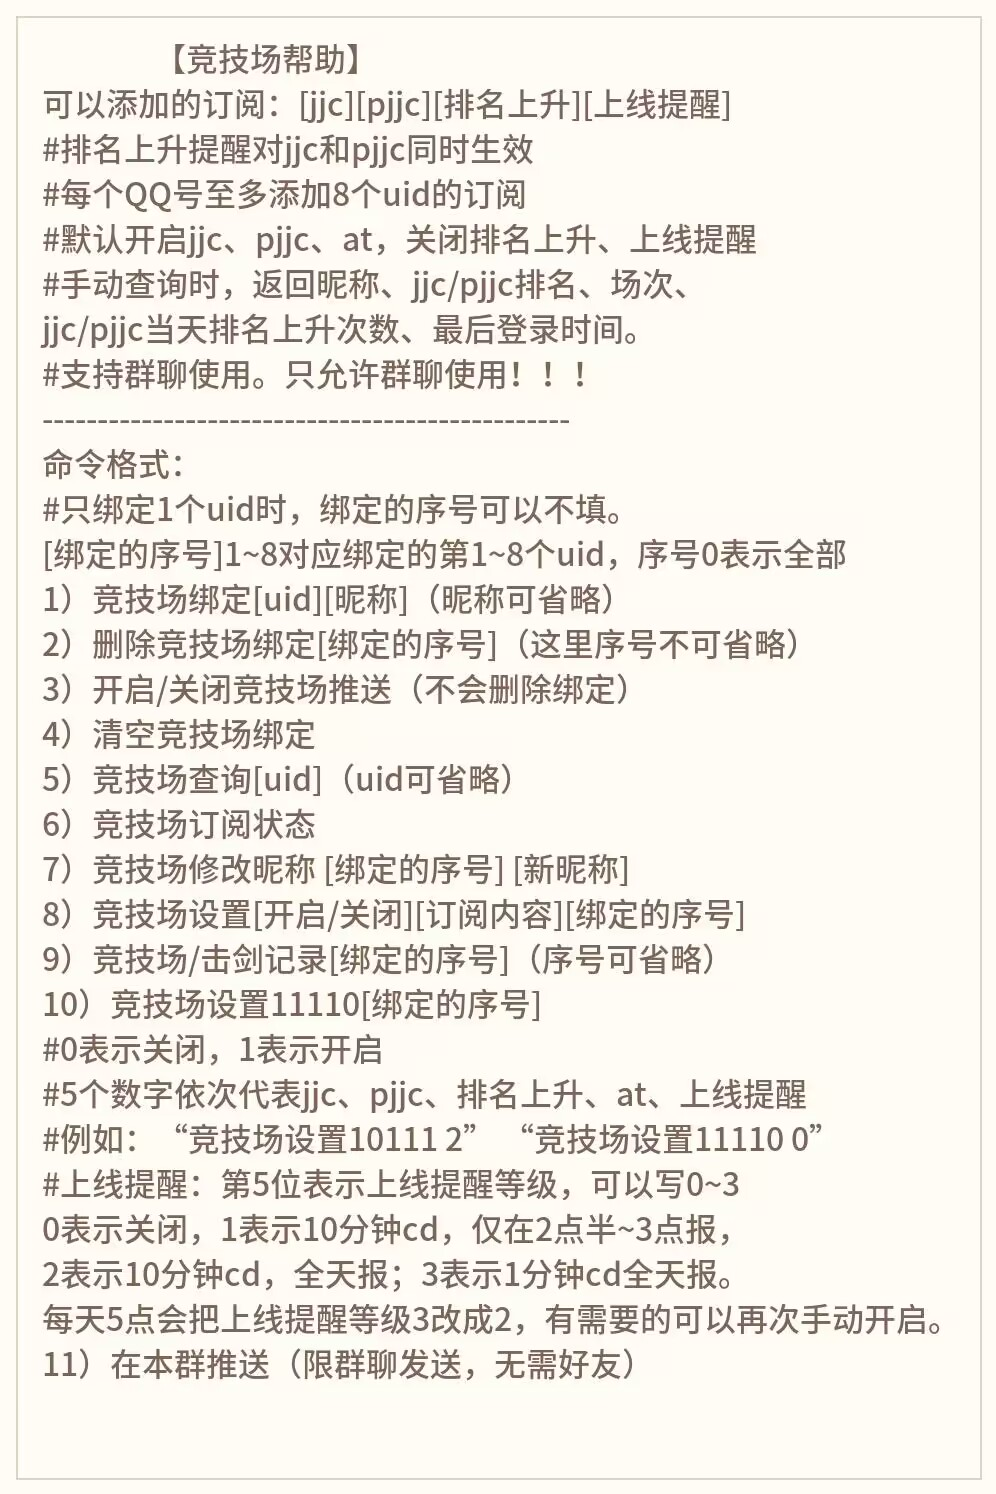
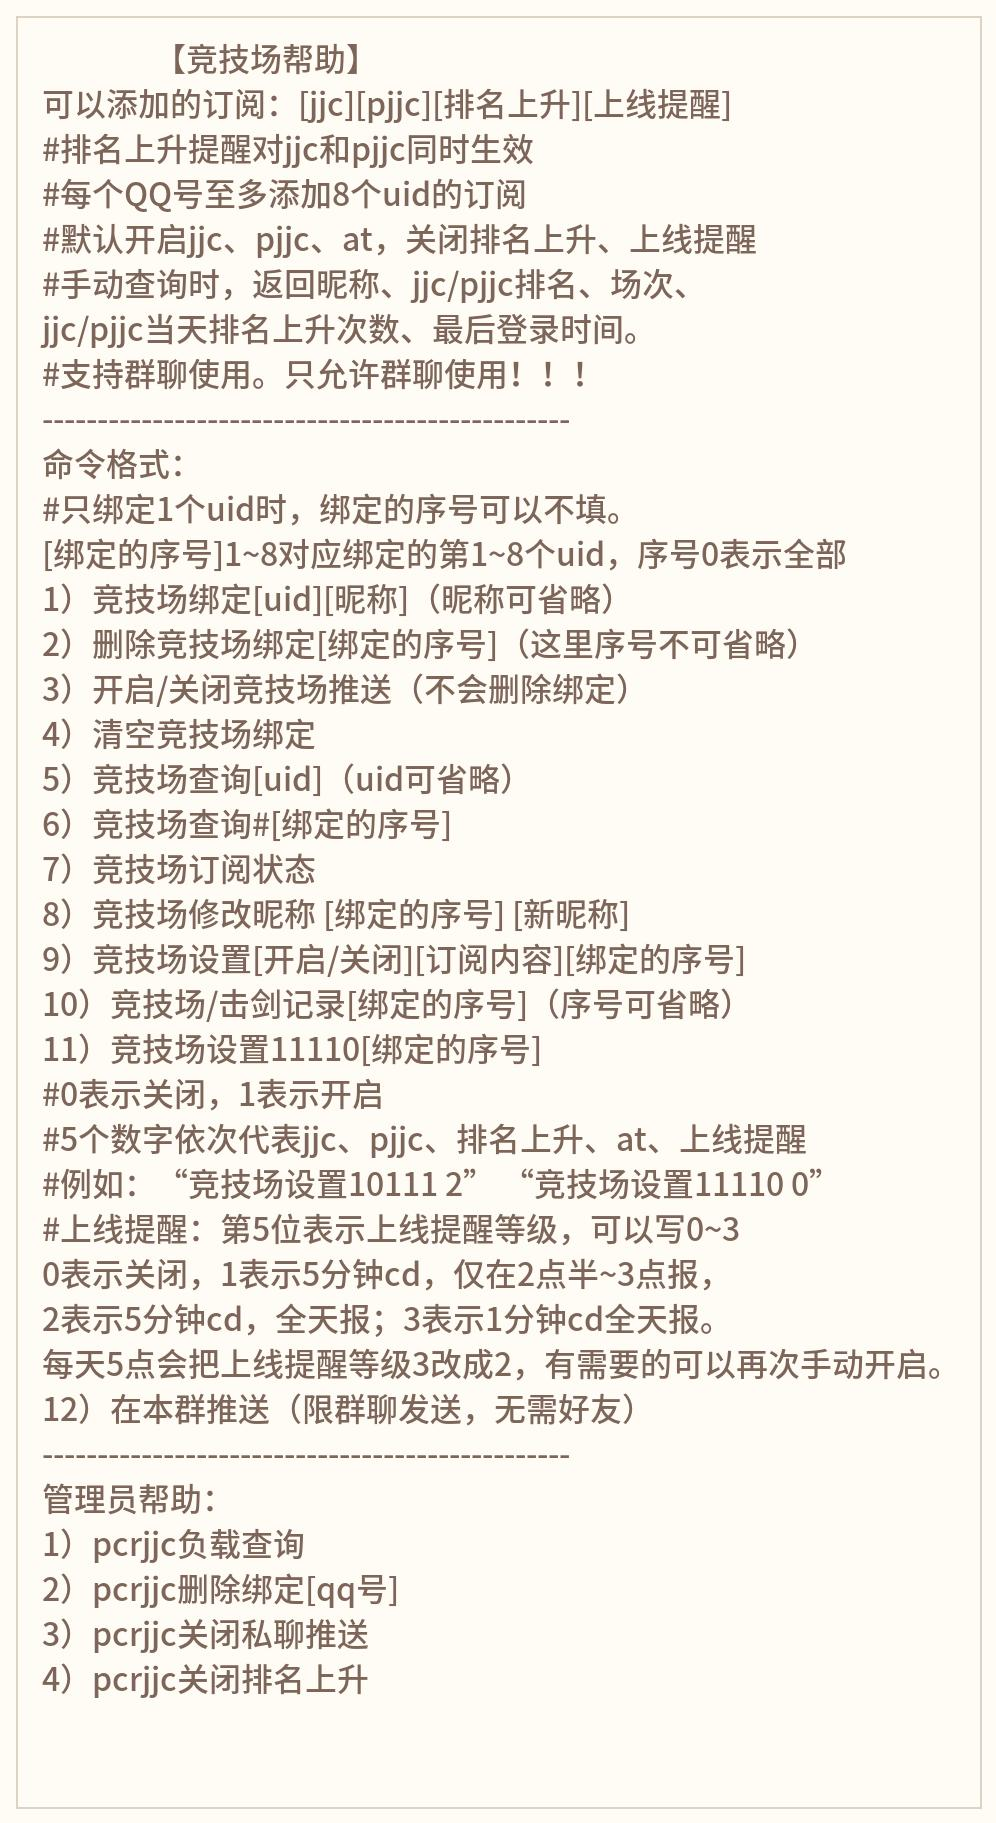
当私聊不可用时，可修改为指定群聊推送

Changed region(s): [[0.0311, 0.0, 0.9337, 0.9545], [0.0311, 0.9853, 0.9649, 1.0], [0.6536, 0.2771, 0.8404, 0.3079]]

diff --git a/src/nonebot_plugin_pcrjjc/__init__.py b/src/nonebot_plugin_pcrjjc/__init__.py
@@ -75,11 +75,12 @@ jjc/pjjc当天排名上升次数、最后登录时间。
 3）开启/关闭竞技场推送（不会删除绑定）
 4）清空竞技场绑定
 5）竞技场查询[uid]（uid可省略）
-6）竞技场订阅状态
-7）竞技场修改昵称 [绑定的序号] [新昵称] 
-8）竞技场设置[开启/关闭][订阅内容][绑定的序号]
-9）竞技场/击剑记录[绑定的序号]（序号可省略）
-10）竞技场设置11110[绑定的序号]
+6）竞技场查询#[绑定的序号]
+7）竞技场订阅状态
+8）竞技场修改昵称 [绑定的序号] [新昵称] 
+9）竞技场设置[开启/关闭][订阅内容][绑定的序号]
+10）竞技场/击剑记录[绑定的序号]（序号可省略）
+11）竞技场设置11110[绑定的序号]
 #0表示关闭，1表示开启
 #5个数字依次代表jjc、pjjc、排名上升、at、上线提醒
 #例如：“竞技场设置10111 2” “竞技场设置11110 0”
@@ -87,7 +88,7 @@ jjc/pjjc当天排名上升次数、最后登录时间。
 0表示关闭，1表示{NOTICE_CD_MIN}分钟cd，仅在2点半~3点报，
 2表示{NOTICE_CD_MIN}分钟cd，全天报；3表示1分钟cd全天报。
 每天5点会把上线提醒等级3改成2，有需要的可以再次手动开启。
-11）在本群推送（限群聊发送，无需好友）
+12）在本群推送（限群聊发送，无需好友）
 '''
 sv_help_adm = '''------------------------------------------------
 管理员帮助：
@@ -134,14 +135,14 @@ async def _(event: MessageEvent, matcher: Matcher):
 async def _(bot: Bot, event: GroupMessageEvent):
     global bind_cache, lck
     gid = event.group_id
+    sid = bot.self_id
     async with lck:
-        for sid in get_bots():
-            gl = await bot.get_group_list()
-            gl = [g['group_id'] for g in gl]
-            try:
-                await bot.send_group_msg(group_id=gid, message=f"本Bot目前正在为【{len(gl)}】个群服务")
-            except Exception:
-                logger.info('bot账号{}不在群{}中，将忽略该消息', sid, gid)
+        gl = await bot.get_group_list()
+        gl = [g['group_id'] for g in gl]
+        try:
+            await bot.send_group_msg(group_id=gid, message=f"本Bot目前正在为【{len(gl)}】个群服务")
+        except Exception:
+            logger.info('bot账号{}不在群{}中，将忽略该消息', sid, gid)
 
 
 @on_fullmatch(msg='查询竞技场订阅数').handle()
@@ -168,11 +169,34 @@ async def _(bot: Bot, event: MessageEvent, matcher: Matcher, group: tuple = Rege
             manual_query_list_name = bind_cache[qid]["pcrName"]
         else:
             await matcher.finish('木有找到绑定信息，查询时不能省略13位uid！')
+    logger.debug("manual_query_list: {}", manual_query_list)
     for i in range(len(manual_query_list)):
         query_cache[event.user_id] = []
         pcrid = manual_query_list[i]
         await queue.put((3, (
             jjc_query, pcrid, {"bot": bot, "event": event, "list": manual_query_list_name, "index": i, "uid": pcrid})))
+        
+
+@on_regex(pattern=r'^竞技场查询\# ?(\d+)$').handle()
+async def _(bot: Bot, event: MessageEvent, matcher: Matcher, group: tuple = RegexGroup()):
+    global bind_cache, lck
+    qid = str(event.user_id)
+    lid = int(group[0])
+    if qid in bind_cache:
+        qid_pcrid_list = bind_cache[qid]["pcrid"]
+        if 0 < lid <= len(qid_pcrid_list):
+            manual_query_list = [bind_cache[qid]["pcrid"][lid-1]]
+            manual_query_list_name = [bind_cache[qid]["pcrName"][lid-1]]
+        else:
+            await matcher.finish('序号超出范围，请检查您绑定的竞技场列表')
+    else:
+        await matcher.finish('木有找到绑定信息，查询时不能省略13位uid！')
+    logger.debug("manual_query_list: {}", manual_query_list)
+    for i in range(len(manual_query_list)):
+        query_cache[event.user_id] = []
+        pcrid = manual_query_list[i]
+        await queue.put((3, (
+            jjc_query, pcrid, {"bot": bot, "event": event, "list": manual_query_list_name, "index": i, "uid": pcrid, "only": lid - 1})))
 
 
 @on_fullmatch(msg='竞技场订阅状态').handle()
@@ -544,10 +568,7 @@ async def _(event: GroupMessageEvent, matcher: Matcher, group: tuple = RegexGrou
 async def _(bot: Bot, event: GroupMessageEvent, matcher: Matcher, group: tuple = RegexGroup()):
     global bind_cache, lck, friend_list, pri_user, admin
     qid = str(event.user_id)
-    try:
-        turn_on = True if group[0] == '开启' else False
-    except:
-        await matcher.finish('出错了，请联系管理员！')
+    turn_on = True if group[0] == '开启' else False
     async with lck:
         if qid in bind_cache:
             if bind_cache[qid]["notice_on"] == turn_on:
@@ -725,6 +746,7 @@ async def jjc_query(data):
         extra = ''
         if pcrid in cache:
             extra = f'''上升: {cache[pcrid][3]}次 / {cache[pcrid][4]}次\n'''
+        i = i if data.get("only") is None else data.get("only")  # 如果是查询单个，修改其序号
         query = f'【{i + 1:02}】{res["user_name"]}\n{res["arena_rank"]}({res["arena_group"]}场) / {res["grand_arena_rank"]}({res["grand_arena_group"]}场)\n{extra}最近上号{last_login_hour}：{last_login_min}\n\n'
         async with lck:
             query_list.append(query)
@@ -736,8 +758,8 @@ async def jjc_query(data):
                         await bot.send_group_msg(self_id=sid, group_id=int(ev.group_id),
                                                  message=MessageSegment.image(pic))
                         break
-                    except Exception:
-                        pass
+                    except Exception as e:
+                        logger.debug(e)
     except KeyError:
         await bot.send_group_msg(group_id=int(ev.group_id), message=f'找不到这个uid，大概率是你输错了！')
 
@@ -804,8 +826,8 @@ async def member_add_sub(data):
         try:
             await bot.send_group_msg(self_id=sid, group_id=int(ev.group_id), message=reply)
             break
-        except Exception:
-            pass
+        except Exception as e:
+            logger.debug(e)
 
 
 async def send_notice(new: int, old: int, pcrid: int, notice_type: int):  # noticeType：1:jjc排名变动   2:pjjc排名变动  3:登录时间刷新
@@ -867,8 +889,8 @@ async def send_notice(new: int, old: int, pcrid: int, notice_type: int):  # noti
                             try:
                                 await bot.send_group_msg(self_id=sid, group_id=int(bind_cache[qid]["gid"]), message=msg)
                                 break
-                            except Exception:
-                                pass
+                            except Exception as e:
+                                logger.debug(e)
                 break
 
 

diff --git a/src/nonebot_plugin_pcrjjc/query.py b/src/nonebot_plugin_pcrjjc/query.py
@@ -1,6 +1,7 @@
 import asyncio
 import os.path
 import traceback
+import types
 from asyncio import Lock
 from json import load, loads, dump
 from os.path import join
@@ -22,6 +23,7 @@ bot: Bot | None = None
 captcha_lck = Lock()
 queue = asyncio.PriorityQueue()
 otto = config.otto
+pcrjjc_group = config.pcrjjc_group
 ordd = 'x'
 validate = None
 validating = False
@@ -57,9 +59,10 @@ async def _():
 @driver.on_bot_connect
 async def _(b: Bot):
     global bot, ac_info, binds_info
+    b.send_admin_msg_of_pcrjjc = types.MethodType(send_admin_msg_of_pcrjjc, b)
     bot = b
     try:
-        while i := ac_info.__iter__().__next__():
+        while i := next(iter(ac_info)):
             b_client = BSdkClient(i, captcha_verifier)
             pcr_client = PcrClient(b_client)
             loop = asyncio.get_event_loop()
@@ -69,6 +72,13 @@ async def _(b: Bot):
             ac_info.remove(i)  # 遍历删除集合元素，防止有第二个bot对象连接时触发登录事件
     except StopIteration:
         pass
+
+
+async def send_admin_msg_of_pcrjjc(self, user_id: int, group_id: str, message: str):
+    if group_id is None:
+        await self.send_private_msg(user_id=user_id, message=message)
+    else:
+        await self.send_group_msg(group_id=int(group_id), message=message)
 
 
 async def first_login(pcr_client):
@@ -98,6 +108,7 @@ async def load_config():
         pass
 
 
+# noinspection PyUnresolvedReferences
 @driver.on_shutdown
 async def _():
     # 清空队列中的任务
@@ -114,10 +125,12 @@ async def validate(group: tuple = RegexGroup()):
     validate = group[0]
     if validate == "manual":
         otto = False
-        await bot.send_private_msg(user_id=admin, message=f'thread{ordd}: Changed to manual')
+        message = f'thread{ordd}: Changed to manual'
+        await bot.send_admin_msg_of_pcrjjc(user_id=admin, group_id=pcrjjc_group, message=message)
     elif validate == "auto":
         otto = True
-        await bot.send_private_msg(user_id=admin, message=f'thread{ordd}: Changed to auto')
+        message = f'thread{ordd}: Changed to auto'
+        await bot.send_admin_msg_of_pcrjjc(user_id=admin, group_id=pcrjjc_group, message=message)
     try:
         captcha_lck.release()
     except:
@@ -136,14 +149,12 @@ async def captcha_verifier(gt: str, challenge: str, userid: str):
     if not otto:
         online_url_head = f"https://help.tencentbot.top/geetest_/?"
         url = f"captcha_type=1&challenge={challenge}&gt={gt}&userid={userid}&gs=1"
-        await bot.send_private_msg(
-            user_id=admin,
-            message=f'pcr账号登录需要验证码，请完成以下链接中的验证内容后将第1个方框的内容点击复制，并加上"validate{ordd} "前缀发送给机器人完成验证'
-                    f'\n示例：validate{ordd} 123456789\n您也可以发送 validate{ordd} auto 命令bot自动过验证码'
-                    f'\n验证链接头：{online_url_head}'
-                    f'\n链接：{url}'
-                    f'\n为避免tx网页安全验证使验证码过期，请手动拼接链接头和链接'
-        )
+        message = f'pcr账号登录需要验证码，请完成以下链接中的验证内容后将第1个方框的内容点击复制，并加上"validate{ordd} "前缀发送给机器人完成验证'
+        f'\n示例：validate{ordd} 123456789\n您也可以发送 validate{ordd} auto 命令bot自动过验证码'
+        f'\n验证链接头：{online_url_head}'
+        f'\n链接：{url}'
+        f'\n为避免tx网页安全验证使验证码过期，请手动拼接链接头和链接'
+        await bot.send_admin_msg_of_pcrjjc(user_id=admin, group_id=pcrjjc_group, message=message)
         await captcha_lck.acquire()
         validating = False
         return challenge, gt, validate
@@ -188,9 +199,10 @@ async def captcha_verifier(gt: str, challenge: str, userid: str):
             pass
     if captcha_cnt >= 5:
         otto = False
-        await bot.send_private_msg(user_id=admin,
-                                   message=f'thread{ordd}: 自动过码多次尝试失败，可能为服务器错误，自动切换为手动。\n确实服务器无误后，可发送 validate{ordd} auto重新触发自动过码。')
-        await bot.send_private_msg(user_id=admin, message=f'thread{ordd}: Changed to manual')
+        message1 = f'thread{ordd}: 自动过码多次尝试失败，可能为服务器错误，自动切换为手动。\n确实服务器无误后，可发送 validate{ordd} auto重新触发自动过码。'
+        message2 = f'thread{ordd}: Changed to manual'
+        await bot.send_admin_msg_of_pcrjjc(user_id=admin, group_id=pcrjjc_group, message=message1)
+        await bot.send_admin_msg_of_pcrjjc(user_id=admin, group_id=pcrjjc_group, message=message2)
         validating = False
         return "manual"
 

diff --git a/src/nonebot_plugin_pcrjjc/config.py b/src/nonebot_plugin_pcrjjc/config.py
@@ -8,6 +8,7 @@ class Config(BaseModel, extra=Extra.ignore):
     apscheduler_log_level: int = 30
     data_path: str = join("data", "pcrjjc")  # 数据存储目录
     superusers: list[str]  # 超级用户列表，建议只填一个，填多个可能导致后续用户指令失效
+    pcrjjc_group: str = None  # 当私聊不可用时，使用指定群聊推送要私聊的消息
     otto: bool = True  # 是否自动过验证码，因自动过码失效，改为手动过码
     version: str = "6.2.0"  # 游戏版本号
     max_pri: int = 0  # 最大私聊人数

diff --git a/src/nonebot_plugin_pcrjjc/pcrclient.py b/src/nonebot_plugin_pcrjjc/pcrclient.py
@@ -3,7 +3,7 @@ from base64 import b64encode, b64decode
 from datetime import datetime
 from hashlib import md5
 from json import loads
-from os.path import dirname, join, exists
+from os.path import join, exists
 from pathlib import Path
 from random import randint
 from re import search
@@ -20,7 +20,7 @@ from .config import Config
 driver = get_driver()
 config = Config.parse_obj(driver.config)
 
-api_root = 'https://l3-prod-all-gs-gzlj.bilibiligame.net'
+api_root = 'https://le1-prod-all-gs-gzlj.bilibiligame.net'
 debugging = 1
 
 data_path = config.data_path

diff --git a/README.md b/README.md
@@ -36,14 +36,15 @@ plugins = ["nonebot_plugin_pcrjjc"]
 
 **在nonebot2项目中的`.env`开头的文件添加下表配置项，其中非必填项可不填**
 
-|     配置项     |   类型    | 是否必填 |   默认值   |              说明              |
-| :------------: | :-------: | :------: |:-------:| :----------------------------: |
-|   SUPERUSERS   | list[str] |   True   |         | 超级用户QQ号，示例：["114514"] |
-|      OTTO      |   bool    |  False   |  True   | 是否自动过验证码（不建议修改） |
-|    VERSION     |    str    |  False   | "6.2.0" |          客户端版本号          |
-|    MAX_PRI     |    int    |  False   |    0    |          最大私聊人数          |
-|   MAX_PCRID    |    int    |  False   |    8    |       每人绑定的最大数量       |
-|  MAX_HISTORY   |    int    |  False   |   50    |        单人最多历史记录        |
-| NOTICE_CD_MIN  |    int    |  False   |   10    |  上线提醒时间间隔（单位：分）  |
-| REFRESH_SECOND |    int    |  False   |    3    |    排名刷新频率（单位：秒）    |
+|     配置项     |   类型    | 是否必填 | 默认值  |                     说明                     |
+| :------------: | :-------: | :------: | :-----: | :------------------------------------------: |
+|   SUPERUSERS   | list[str] |   True   |         |        超级用户QQ号，示例：["114514"]        |
+|  PCRJJC_GROUP  |    str    |  False   |  None   | 当私聊不可用时，使用指定群聊推送要私聊的消息 |
+|      OTTO      |   bool    |  False   |  True   |        是否自动过验证码（不建议修改）        |
+|    VERSION     |    str    |  False   | "6.2.0" |                 客户端版本号                 |
+|    MAX_PRI     |    int    |  False   |    0    |                 最大私聊人数                 |
+|   MAX_PCRID    |    int    |  False   |    8    |              每人绑定的最大数量              |
+|  MAX_HISTORY   |    int    |  False   |   50    |               单人最多历史记录               |
+| NOTICE_CD_MIN  |    int    |  False   |   10    |         上线提醒时间间隔（单位：分）         |
+| REFRESH_SECOND |    int    |  False   |    3    |           排名刷新频率（单位：秒）           |
 
